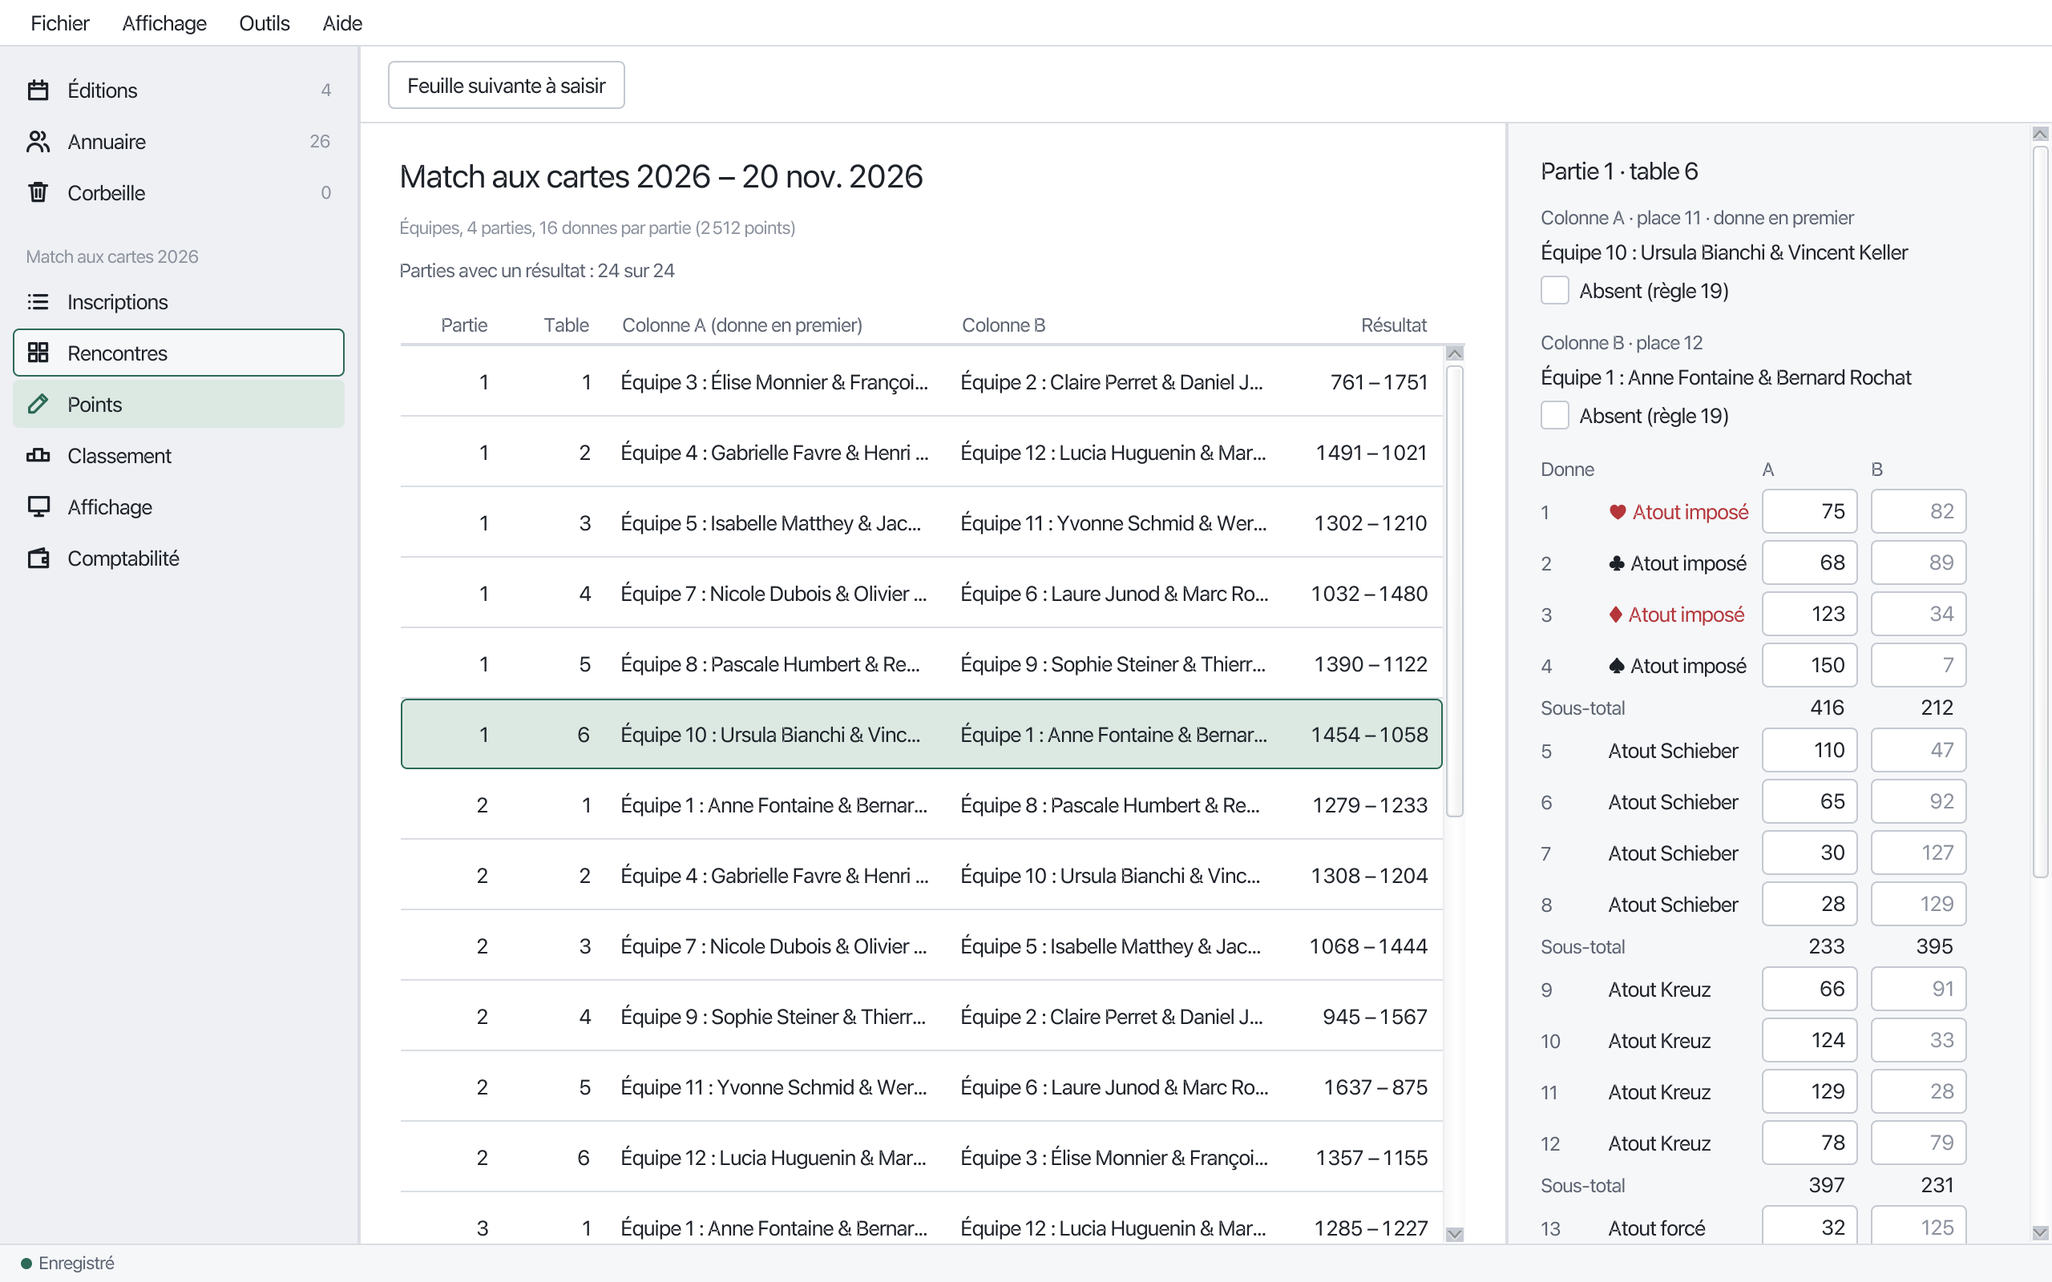
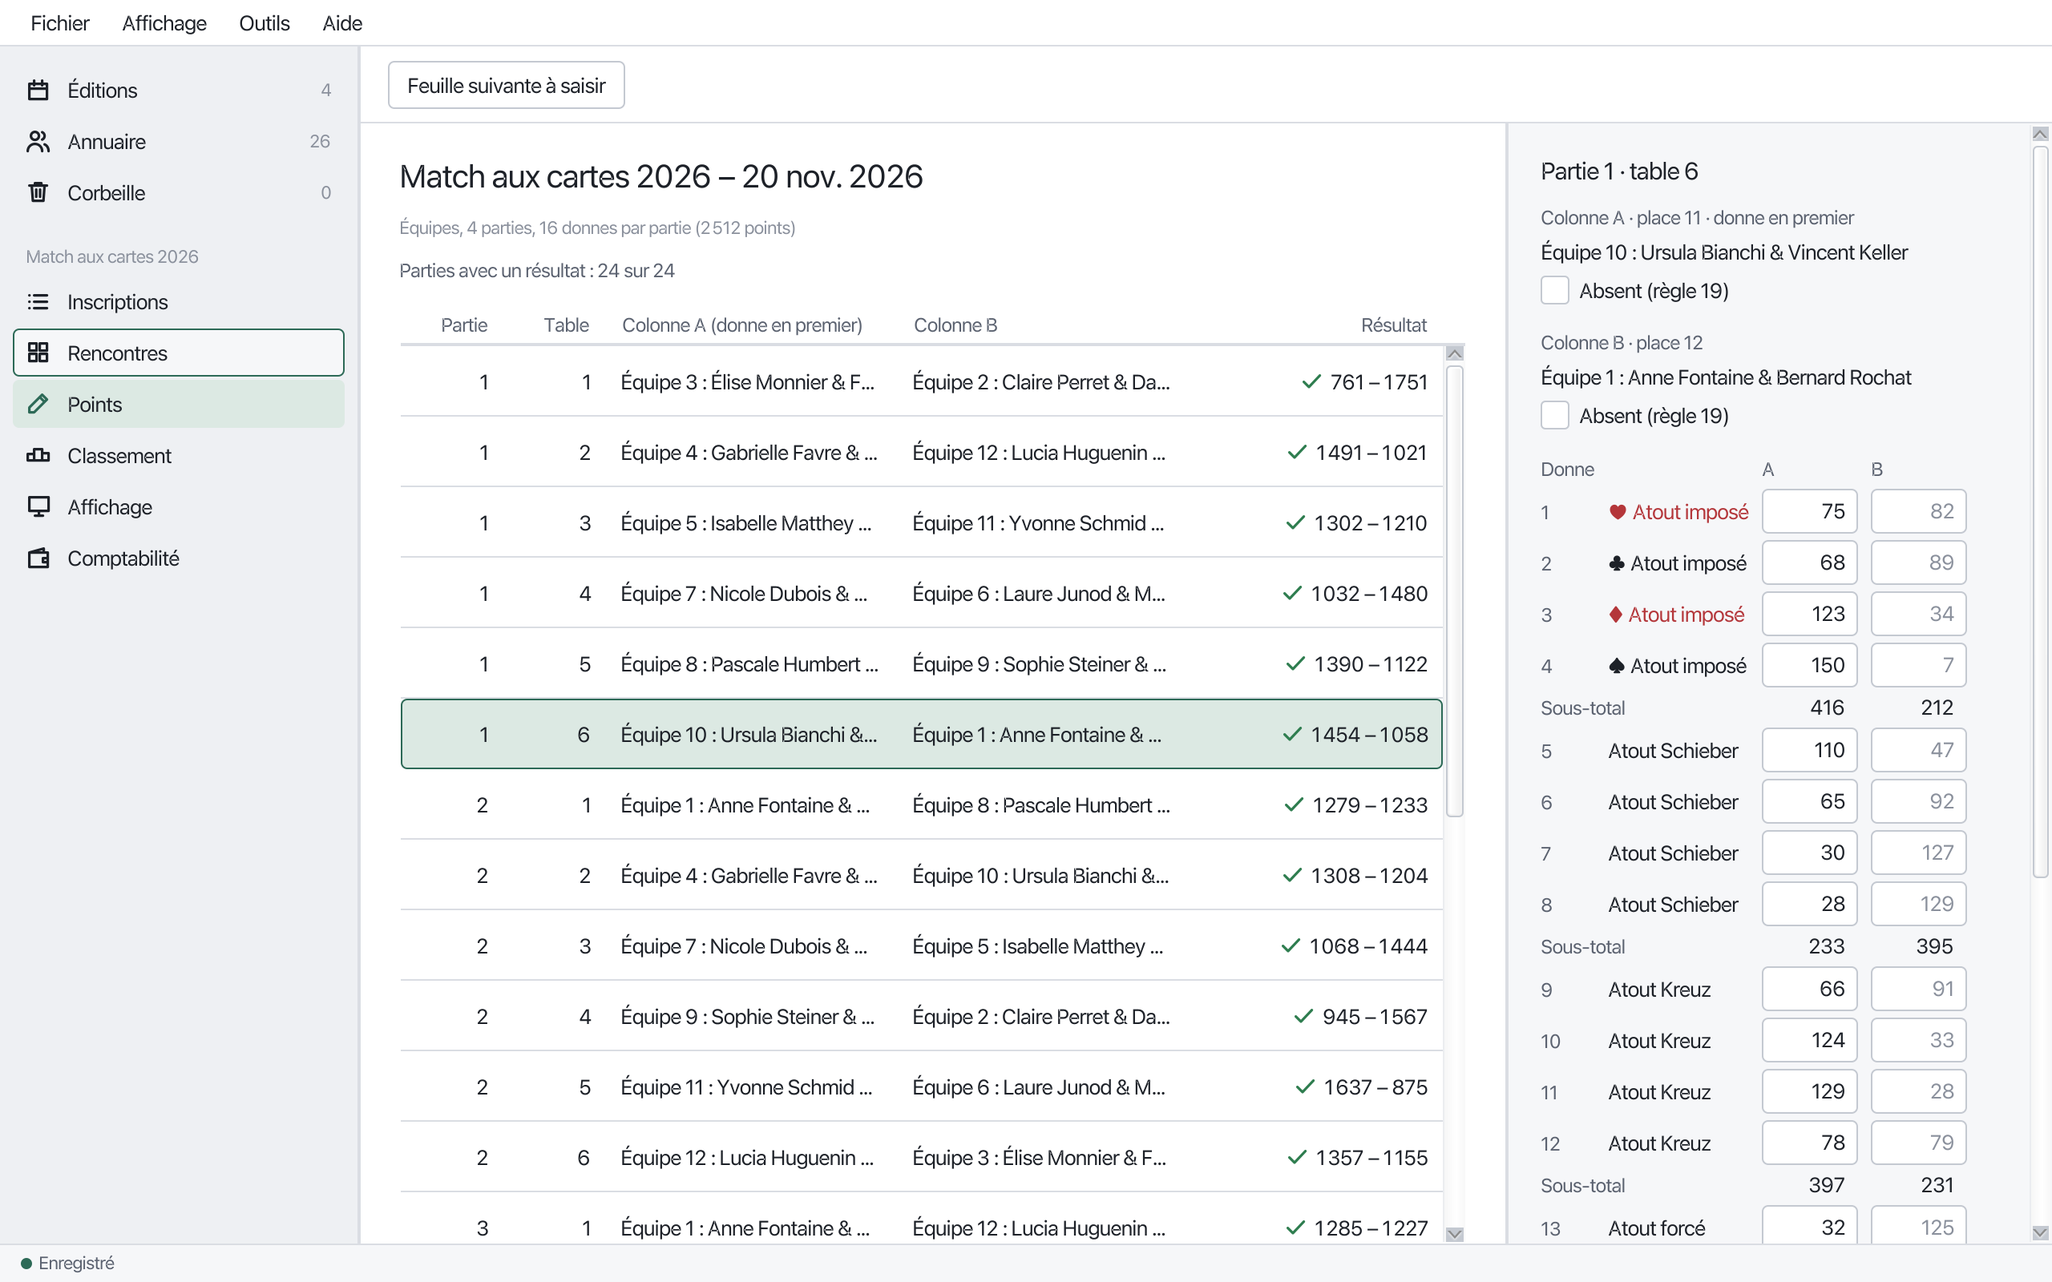
Update from the reference repository

diff --git a/src/main/resources/ch/varani/jass/app/components.css b/src/main/resources/ch/varani/jass/app/components.css
@@ -233,6 +233,11 @@
     -fx-stroke: -c-warning;
 }
 
+/* The rows of a table that are done, e.g. a result entered: a tick in the success colour (Views.marks). */
+.table-row-cell .done .icon {
+    -fx-stroke: -c-success;
+}
+
 /* A button whose text takes several lines, e.g. the previous team mate of the registration: its height follows its
    text instead of the one line of the other buttons. */
 .button.multiline {

diff --git a/src/main/resources/ch/varani/jass/app/tokens-dark.css b/src/main/resources/ch/varani/jass/app/tokens-dark.css
@@ -14,6 +14,7 @@
     -c-on-accent: #0F1A16;
     -c-danger: #E0787B;
     -c-warning: #D9A24F;
+    -c-success: #6CC08B;
     -c-red-suit: #E0787B;
     -c-shadow: rgba(0, 0, 0, 0.40);
 }

diff --git a/src/main/resources/ch/varani/jass/app/tokens-light.css b/src/main/resources/ch/varani/jass/app/tokens-light.css
@@ -14,6 +14,7 @@
     -c-on-accent: #FFFFFF;
     -c-danger: #B4363A;
     -c-warning: #A86A12;
+    -c-success: #2E7D4F;
     -c-red-suit: #B4363A;
     -c-shadow: rgba(0, 0, 0, 0.16);
 }

diff --git a/src/main/java/ch/varani/jass/app/Views.java b/src/main/java/ch/varani/jass/app/Views.java
@@ -29,6 +29,8 @@ final class Views {
 
   /** The style class of a row of a table that needs the attention of the user. */
   static final String WARNED = "warned";
+  /** The style class of the tick of a row of a table that is done. */
+  static final String DONE = "done";
   /**
    * The style class of a column of numbers or dates, and of a number: aligned to the right (DESIGN.md §6), the head of
    * the column too.
@@ -115,7 +117,7 @@ final class Views {
   }
 
   /**
-   * Marks the rows of a table that need the attention of the user, e.g. a score sheet to check: the row is written in
+   * Marks the rows of a table that need the attention of the user, e.g. a participant to check: the row is written in
    * the warning colour (style class {@value #WARNED}) and, as a colour is never alone, a column shows a warning icon
    * with its description (tooltip and screen readers) before its text. The marks follow
    * {@link TableView#refresh()}.
@@ -128,6 +130,36 @@ final class Views {
    */
   static <T> void warnings(final TableView<T> table, final TableColumn<T, String> column, final Predicate<T> warned,
                            final Function<T, String> description) {
+    marks(table, column, new Marks<>(warned, description, null, null));
+  }
+
+  /**
+   * Marks the rows of a table that need the attention of the user, as {@link #warnings}, and the rows that are done,
+   * e.g. a game whose result is entered: the column shows a tick (style class {@value #DONE}, in the success colour)
+   * with its description before its text. A row that needs the attention of the user shows the warning only.
+   *
+   * @param <T> the type of the rows.
+   * @param table the table.
+   * @param column the column showing the icons.
+   * @param warned tells whether a row needs the attention of the user.
+   * @param warning what the warning icon of a row means.
+   * @param done tells whether a row is done.
+   * @param finished what the tick means.
+   */
+  static <T> void marks(final TableView<T> table, final TableColumn<T, String> column, final Predicate<T> warned,
+                        final Function<T, String> warning, final Predicate<T> done, final String finished) {
+    marks(table, column, new Marks<>(warned, warning, done, finished));
+  }
+
+  /**
+   * Gives the rows of a table their style class and the column its icons.
+   *
+   * @param <T> the type of the rows.
+   * @param table the table.
+   * @param column the column showing the icons.
+   * @param marks the marks of the rows.
+   */
+  private static <T> void marks(final TableView<T> table, final TableColumn<T, String> column, final Marks<T> marks) {
     table.setRowFactory(view -> new TableRow<>() {
 
       /**
@@ -139,14 +171,15 @@ final class Views {
       @Override
       protected void updateItem(final T item, final boolean empty) {
         super.updateItem(item, empty);
-        style(this, WARNED, !empty && warned.test(item));
+        style(this, WARNED, !empty && marks.warned().test(item));
       }
 
     });
     column.setCellFactory(view -> new TableCell<>() {
 
       /**
-       * Shows the text of the cell, with the warning icon when its row needs the attention of the user.
+       * Shows the text of the cell, with the warning icon when its row needs the attention of the user, else with the
+       * tick when its row is done.
        *
        * @param text the text.
        * @param empty whether the cell is empty.
@@ -155,16 +188,51 @@ final class Views {
       protected void updateItem(final String text, final boolean empty) {
         super.updateItem(text, empty);
         setText(empty ? null : text);
-        setGraphic(null);
-        final T item = empty ? null : getTableView().getItems().get(getIndex());
-        if (item != null && warned.test(item)) {
-          final Label icon = new Label();
-          Icon.WARNING.decorate(icon, description.apply(item));
-          setGraphic(icon);
-        }
+        setGraphic(empty ? null : marks.graphic(getTableView().getItems().get(getIndex())));
       }
 
     });
+  }
+
+  // *******************************************************************************************************************
+  // Inner classes
+  // *******************************************************************************************************************
+
+  /**
+   * The marks of the rows of a table: the warning of the rows that need the attention of the user and, optionally,
+   * the tick of the rows that are done.
+   *
+   * <p>Immutable; the nodes it creates are confined to the JavaFX Application Thread.</p>
+   *
+   * @param <T> the type of the rows.
+   * @param warned tells whether a row needs the attention of the user.
+   * @param warning what the warning icon of a row means.
+   * @param done tells whether a row is done, or {@code null} when the rows have no tick.
+   * @param finished what the tick means, or {@code null} when the rows have no tick.
+   */
+  private record Marks<T>(Predicate<T> warned, Function<T, String> warning, Predicate<T> done, String finished) {
+
+    /**
+     * Creates the icon of a row: the warning when it needs the attention of the user, else the tick when it is done.
+     *
+     * @param item the row.
+     *
+     * @return the icon, or {@code null} when the row has no mark.
+     */
+    Node graphic(final T item) {
+      final Label icon = new Label();
+      if (warned.test(item)) {
+        Icon.WARNING.decorate(icon, warning.apply(item));
+        return icon;
+      }
+      if (done == null || !done.test(item)) {
+        return null;
+      }
+      Icon.CHECK.decorate(icon, finished);
+      icon.getStyleClass().add(DONE);
+      return icon;
+    }
+
   }
 
 }

diff --git a/src/main/java/ch/varani/jass/app/ScoresController.java b/src/main/java/ch/varani/jass/app/ScoresController.java
@@ -26,6 +26,7 @@ import javafx.scene.layout.GridPane;
 import javafx.scene.layout.Region;
 import javafx.scene.layout.StackPane;
 import javafx.scene.layout.VBox;
+import javafx.scene.text.Text;
 
 import java.util.ArrayList;
 import java.util.List;
@@ -52,8 +53,10 @@ import java.util.stream.IntStream;
  * Enter, which moves to the next deal; the arrows Up and Down move between the deals of a column. A value that is not
  * a number between 0 and 157 is rejected with a message; the deals whose columns do not sum to 157 are highlighted
  * (style class {@value #INCONSISTENT}) and listed under the sheet, never rejected, and the game is marked in the list
- * (warning colour and icon, {@link Views#warnings}). Enter in the list of the games moves to the first
- * deal of the sheet; Delete clears the sheet, after confirmation.</p>
+ * (warning colour and icon, {@link Views#marks}); a game whose result is entered (a forfeit, or every deal of the
+ * sheet typed and consistent) is marked with a tick, so that the sheets still to transcribe are seen at a glance.
+ * Enter in the list of the games moves to the first deal of the sheet; Delete clears the sheet, after
+ * confirmation.</p>
  *
  * <p><b>Lock</b>: once the lots are drawn (rule 15), the match is closed: the sheets can no longer be changed, until
  * the draw is cancelled from the ranking.</p>
@@ -82,6 +85,11 @@ final class ScoresController {
   private static final int RECEIVER_COLUMN = 3;
   /** The width of the fields of the points, in characters: up to 157. */
   private static final int POINTS_WIDTH = 3;
+  /**
+   * The width added to the widest result to size its column, in pixels: the padding of the cell (8 on each side), the
+   * gap between the icon and the text, and a margin.
+   */
+  private static final double RESULT_PADDING = 28;
 
   // *******************************************************************************************************************
   // Attributes
@@ -225,7 +233,9 @@ final class ScoresController {
     column("scores.column.receiver", game -> main.side(edition, game.receiver()), false);
     final TableColumn<Pairing, String> results = column("column.result", game -> scoring.result(game.round(),
         game.table()).map(this::describe).orElse(""), true);
-    Views.warnings(table, results, this::toCheck, game -> messages.get("scores.warning"));
+    results.setMinWidth(resultWidth());
+    Views.marks(table, results, this::toCheck, game -> messages.get("scores.warning"), this::entered,
+                messages.get("scores.entered"));
     sheet.visibleProperty().bind(table.getSelectionModel().selectedItemProperty().isNotNull());
     sheet.managedProperty().bind(sheet.visibleProperty());
     choose.visibleProperty().bind(sheet.visibleProperty().not());
@@ -274,6 +284,31 @@ final class ScoresController {
   private boolean toCheck(final Pairing game) {
     return edition.results().sheet(game.round(), game.table())
                   .map(scoreSheet -> !scoring.totals(scoreSheet).inconsistentDeals().isEmpty()).orElse(false);
+  }
+
+  /**
+   * Measures the width of the column of the results, so that a result is never cut: the widest result, a forfeit
+   * between two sides with the points of a whole game, after its icon.
+   *
+   * @return the minimum width of the column, in pixels.
+   */
+  private double resultWidth() {
+    final String points = main.messages().number(edition.deals().pointsPerGame());
+    final Text widest = new Text(main.messages().get("scores.result.forfeit", points, points));
+    return widest.getLayoutBounds().getWidth() + Icon.SIZE + RESULT_PADDING;
+  }
+
+  /**
+   * Tells whether the result of a game is entered: it is a forfeit (rules 17 and 19), or every deal of its sheet is
+   * played; a sheet with inconsistent deals is marked as to check instead ({@link #toCheck}).
+   *
+   * @param game the game.
+   *
+   * @return {@code true} if the result of the game is entered.
+   */
+  private boolean entered(final Pairing game) {
+    return scoring.result(game.round(), game.table()).filter(result -> result.forfeit() || edition.results()
+        .sheet(game.round(), game.table()).orElseThrow().deals().stream().allMatch(DealScore::isPlayed)).isPresent();
   }
 
   /**

diff --git a/src/test/java/ch/varani/jass/app/ScoresScreenTest.java b/src/test/java/ch/varani/jass/app/ScoresScreenTest.java
@@ -71,6 +71,8 @@ final class ScoresScreenTest {
   private static final int DEDUCTION = 24;
   /** The points of a forfeit: half of a game (rule 19). */
   private static final int FORFEIT = 1256;
+  /** The games of the schedule: 2 rounds of 2 tables. */
+  private static final int PAIRINGS = 4;
   /** The points typed then left by going to another view. */
   private static final int LEFT = 90;
 
@@ -305,6 +307,38 @@ final class ScoresScreenTest {
         () -> assertEquals(1, marked),
         () -> assertEquals("Feuille à vérifier", tooltip),
         () -> assertTrue(check.startsWith("Donnes 1, 2, 3"), check));
+  }
+
+  /**
+   * F9: a game whose result is entered (a forfeit, or every deal of its sheet typed and consistent) is marked with a
+   * tick and its description; a sheet partly typed has no tick, a sheet to check shows the warning only.
+   *
+   * @param robot the TestFX robot.
+   *
+   * @throws Exception never.
+   */
+  @Test
+  @DisplayName("F9: the games whose result is entered are marked with a tick in the list")
+  void enteredTest(final FxRobot robot) throws Exception {
+    ScoreFixtures.open(robot, POINTS, "scoresNav");
+    await(() -> shown(robot, "a1"));
+    final int before = robot.lookup("." + Views.DONE).queryAll().size();
+    enter(robot, "a1", "100");
+    await(() -> ScoreFixtures.stored(folder, POINTS).results().sheet(1, 1).isPresent());
+    final int partial = robot.lookup("." + Views.DONE).queryAll().size();
+    select(robot, 2);
+    robot.interact(robot.lookup("#giverAbsent").queryAs(CheckBox.class)::fire);
+    await(() -> robot.lookup("." + Views.DONE).queryAll().size() == 1);
+    final String tooltip = robot.lookup("." + Views.DONE).queryLabeled().getTooltip().getText();
+    final boolean warned = robot.lookup(".table-row-cell.warned ." + Views.DONE).queryAll().isEmpty();
+    menu(robot, "listItem");
+    ScoreFixtures.open(robot, COMPLETE, "scoresNav");
+    await(() -> robot.lookup("." + Views.DONE).queryAll().size() == PAIRINGS);
+    assertAll(
+        () -> assertEquals(0, before),
+        () -> assertEquals(0, partial),
+        () -> assertEquals("Résultat saisi", tooltip),
+        () -> assertTrue(warned));
   }
 
   /**

diff --git a/src/main/java/ch/varani/jass/app/Icon.java b/src/main/java/ch/varani/jass/app/Icon.java
@@ -61,6 +61,8 @@ enum Icon {
   DOCUMENT("M4 1.5h5.5L12.5 4.5v10H4zM9.5 1.5v3h3M6 8h4.5M6 10.5h4.5"),
   /** A cross: close. */
   CLOSE("M4 4l8 8M12 4l-8 8"),
+  /** A tick: something done, e.g. a result entered. */
+  CHECK("M3 8.5l3.2 3.2L13 4.5"),
   /** Something to check: a warning triangle. */
   WARNING("M8 2.5l6 10.5H2zM8 6.5v3M8 11.2h.1");
 

diff --git a/DESIGN.md b/DESIGN.md
@@ -61,6 +61,7 @@ All the colours are *looked-up colors* defined on `.root`. No hexadecimal code a
 | `-c-on-accent` | `#FFFFFF` | Text on an accent background |
 | `-c-danger` | `#B4363A` | Errors, delays, destructive actions |
 | `-c-warning` | `#A86A12` | Warnings |
+| `-c-success` | `#2E7D4F` | Something done, e.g. the tick of a result entered |
 
 ### Dark theme
 
@@ -80,6 +81,7 @@ All the colours are *looked-up colors* defined on `.root`. No hexadecimal code a
 | `-c-on-accent` | `#0F1A16` |
 | `-c-danger` | `#E0787B` |
 | `-c-warning` | `#D9A24F` |
+| `-c-success` | `#6CC08B` |
 
 ![Main window, dark theme](screenshots/ecran-principal-sombre.png)
 
@@ -234,7 +236,7 @@ Background `-c-bg`, border `-c-border`, caption text `-c-text-2`. Neutral: colou
 
 - Line style, stroke of 1.6 px at 16 px, round ends, a single icon family in the whole application (Ikonli with a consistent line pack, or home-made `SVGPath`).
 - Size: 16 px in the interface, 20 px at most in the empty states.
-- Colour: `-c-text` by default, `-c-accent` for the active element only.
+- Colour: `-c-text` by default, `-c-accent` for the active element only; in a list, the warning icon in `-c-warning`, the tick of a row that is done in `-c-success` (warning first: a row to check never shows the tick).
 - Icons are never alone without a label or a tooltip.
 - Bitmap images: provide the `@2x` variants (JavaFX loads them automatically on HiDPI screens).
 
@@ -324,6 +326,7 @@ We start from Modena (the default theme of JavaFX) and override it through its o
     -c-on-accent: #FFFFFF;
     -c-danger: #B4363A;
     -c-warning: #A86A12;
+    -c-success: #2E7D4F;
 }
 ```
 

diff --git a/changelog.md b/changelog.md
@@ -22,6 +22,9 @@ All notable changes of the project are documented in this file.
   date, is a development version, or when the check fails.
 
 ### Changed
+- **Scores**: in the list of the games, a game whose result is entered (every deal of its sheet typed and
+  consistent, or a forfeit) is marked with a green tick, so that the sheets still to transcribe are seen at a
+  glance; a sheet to check keeps its warning.
 - **Editions**: the report of the unreadable edition files suggests checking that the latest version of the
   application is used, as they may come from a newer version.
 - **Edition files**: format version 2, with the maximum of teams and the waiting list. The files of the earlier

diff --git a/guide/fr.md b/guide/fr.md
@@ -278,6 +278,8 @@ suivante à saisir**) : sa feuille apparaît à droite, comme la feuille papier.
   16)** et les **points retenus** sont calculés.
 - Une donne dont les deux colonnes ne font pas 157 points est surlignée, et la partie est marquée _Feuille à
   vérifier_ dans la liste.
+- Une partie dont le résultat est saisi (toutes les donnes, sans erreur, ou un forfait) est marquée d’une coche verte
+  _Résultat saisi_ dans la liste : les feuilles qui restent à retranscrire se repèrent d’un coup d’œil.
 - **Absent (règle 19)** : l’équipe adverse reçoit 1 256 points.
 - **Effacer la feuille** recommence la saisie d’une partie.
 

diff --git a/guide/de.md b/guide/de.md
@@ -280,6 +280,8 @@ Blatt erfassen**): Ihr Blatt erscheint rechts, wie das Papierblatt.
   16)** und die **gezählten Punkte** werden berechnet.
 - Ein Spiel, dessen zwei Spalten nicht 157 Punkte ergeben, wird hervorgehoben, und die Partie ist in der Liste mit
   _Blatt prüfen_ markiert.
+- Eine Partie, deren Resultat erfasst ist (alle Spiele ohne Fehler, oder ein Forfait), ist in der Liste mit einem
+  grünen Häkchen _Resultat erfasst_ markiert: Die noch zu übertragenden Blätter sind auf einen Blick erkennbar.
 - **Abwesend (Regel 19)**: Das gegnerische Team erhält 1’256 Punkte.
 - **Blatt löschen** beginnt die Erfassung einer Partie von vorn.
 

diff --git a/guide/it.md b/guide/it.md
@@ -277,6 +277,8 @@ successivo da inserire**): il suo foglio appare a destra, come il foglio di cart
   conteggiati** sono calcolati.
 - Una mano le cui due colonne non fanno 157 punti è evidenziata, e la partita è segnata _Foglio da verificare_
   nell’elenco.
+- Una partita il cui risultato è inserito (tutte le mani, senza errori, o un forfait) è segnata con una spunta verde
+  _Risultato inserito_ nell’elenco: i fogli ancora da trascrivere si vedono a colpo d’occhio.
 - **Assente (regola 19)**: la squadra avversaria riceve 1’256 punti.
 - **Cancella il foglio** ricomincia l’inserimento di una partita.
 
